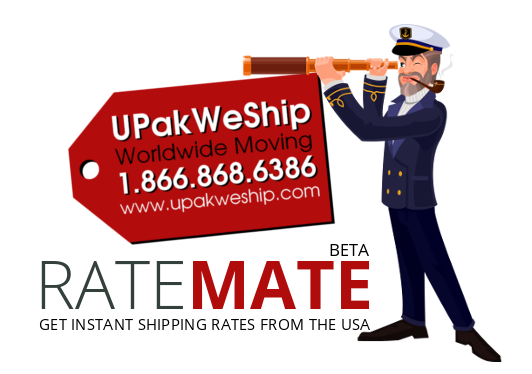
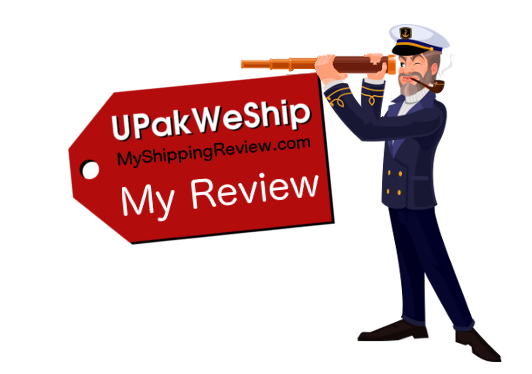
Updating main image with my custom version. Also making some minor wording/grammatical improvements.

diff --git a/src/main/resources/index.html b/src/main/resources/index.html
@@ -4,8 +4,8 @@
   <title>MyShippingReview.com</title>
   <link rel="stylesheet" href="css/style.css" type="text/css">
   <meta property="fb:admins" content="705917268"/>
-  <meta property="og:image" content="http://www.michael-siegel.com/story/images/shippingScandal1a.png"/>
-  <meta property="og:url" content="http://www.michael-siegel.com/story/"/>
+  <meta property="og:image" content="http://www.myshippingreview.com/images/shippingScandal1.png"/>
+  <meta property="og:url" content="http://www.myshippingreview.com/"/>
   <meta property="og:title" content="MyShippingReview.com"/>
   <meta property="og:description" content="I'm a programmer from California who thought that shipping my stuff to my new place in England with UPakWeShip/EuroUSA would be easy: I was wrong. I made this page because I don't want anyone else to get the same nasty surprises." />
 </head><body>
@@ -28,7 +28,7 @@
   <li> <a href="#fb-comments">Comments</a> </li>
 </ul>
 </div>
-<div class="article"> <img src="images/shippingScandal1a.png" style="width: 378px; height: 252px;" alt="">
+<div class="article"> <img src="images/shippingScandal1.png" style="width: 378px; height: 252px;" alt="">
 <h1>"What u see is what u pay" is <span style="text-decoration: underline; font-weight: bold;">NOT</span>
 true.</h1>
 <div style="text-align: center;">My move from California to London<br>
@@ -53,7 +53,7 @@ true.</h1>
 will <span style="font-style: italic;">not</span> back it up.&nbsp; I
 was charged an unexpected $1,749.65 for a
 customs inspection fee.  I reminded UPakWeShip about their price guarantee, but they
-refused to honor it (see the emails on the right). <span style="color:red;">Update: I have recently been charged an <span style="font-weight: bold;">additional</span> unexpected $2,600.00 in demurrage, bringing the total of surprise fees to $4,349.65.</span><br>
+refused to honor it (see the emails on the right). <span style="font-weight: bold;">Update: I have recently been charged an <span style="font-style: italic;">additional</span> unexpected $2,600.00 in demurrage fees bringing the total unexpected fees to $4,349.65.</span><br>
 </p>
 <img src="images/shippingScandal5.png" style="border: 1px solid; width: 418px; height: 121px;" alt="Price Guarantee X"><br>
 <p>I originally signed a contract in which I agreed to pay $4,190.00 to move a
@@ -66,11 +66,9 @@ of December</span> stating that my container was selected for a customs
 exam and that there would be "additional costs".&nbsp; On the <span style="font-style: italic;"><span style="font-weight: bold;">30th</span>
 of December</span> I was informed that the
 "additional costs" for the customs exam would be $1,749.65.&nbsp; After
-inquiring about the price guarantee I was told that "<span style="font-weight: bold;">there is no way we can guarantee these costs into our rates</span>".&nbsp; On the 13th of March, I received an ADDITIONAL bill for $2,600.00 in demurrage fees.<br>
-</p>
+inquiring about the price guarantee I was told that "<span style="font-weight: bold;">there is no way we can guarantee these costs into our rates</span>".&nbsp; On the 13th of March, I received an <span style="font-style: italic;">additional</span> bill for $2,600.00 in demurrage fees bringing my total cost with fees included to <span style="font-weight: bold;">$8539.65</span>.</p>
 <p style="text-align: center;"><img src="images/shippingScandal2.jpg" style="width: 418px; height: 234px;" alt="My container departing">My
-container departing, before I knew the extra fees I would have to
-pay.<br>
+container departing, before I knew the extra fees I would have to pay.<br>
 <br>
 <br>
 </p>
@@ -98,10 +96,9 @@ and you will probably have to pay substantial extra charges.<span></span>
 </p>
 </div>
 </div>
-
-<div id="fb-comments" class="fb-comments" data-href="http://www.michael-siegel.com/story/" data-numposts="5"></div>
-
 </div>
+<br>
+<div id="fb-comments" class="fb-comments" data-href="http://www.myshippingreview.com/" data-numposts="5" style="margin: 0 auto; width: 390px;"></div>
 </div>
 
 <div id="footer">
